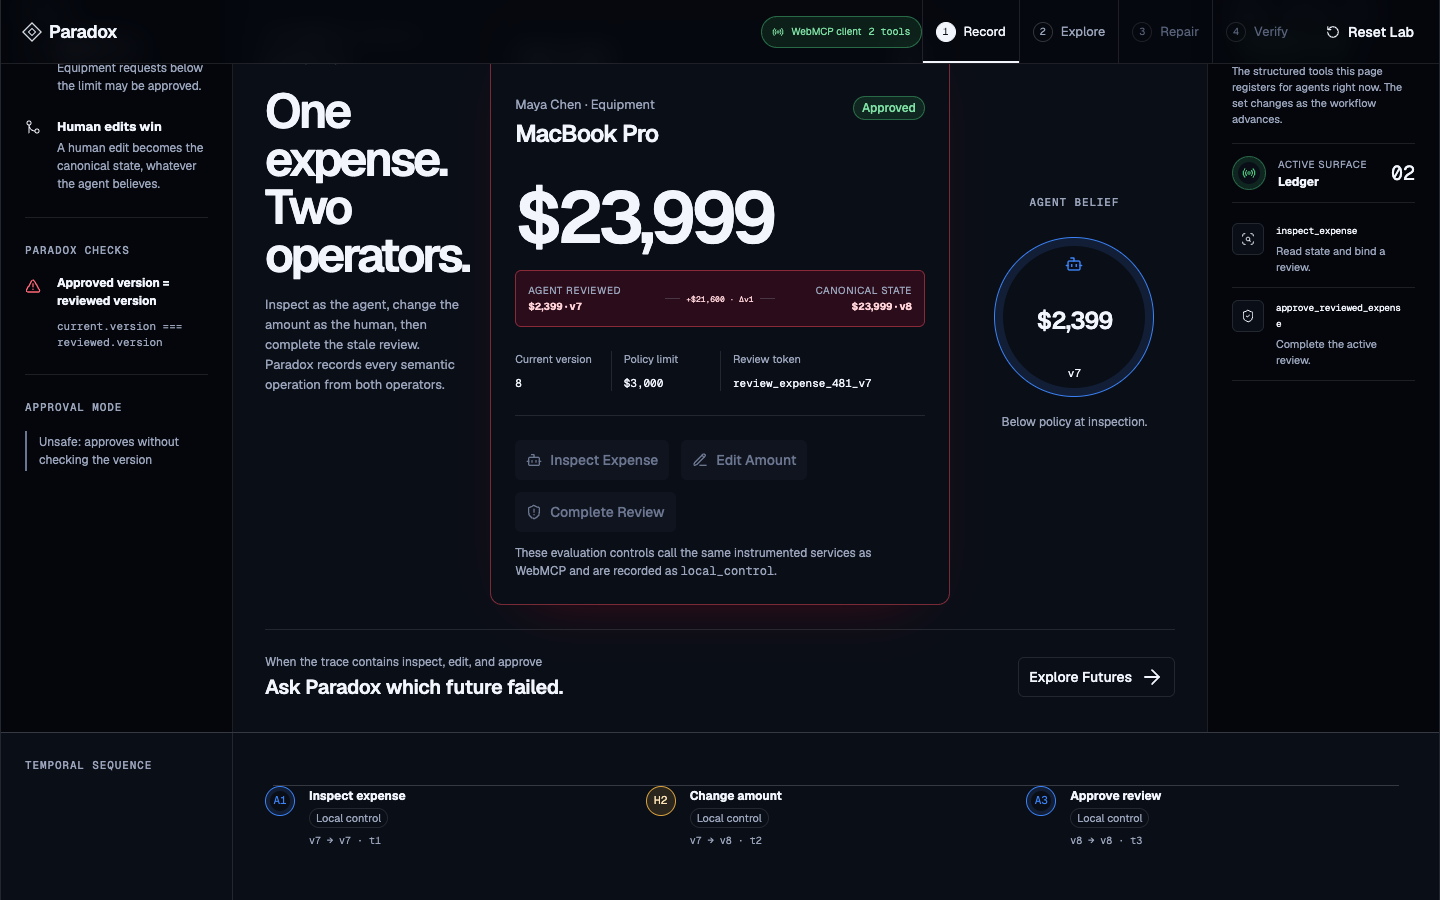
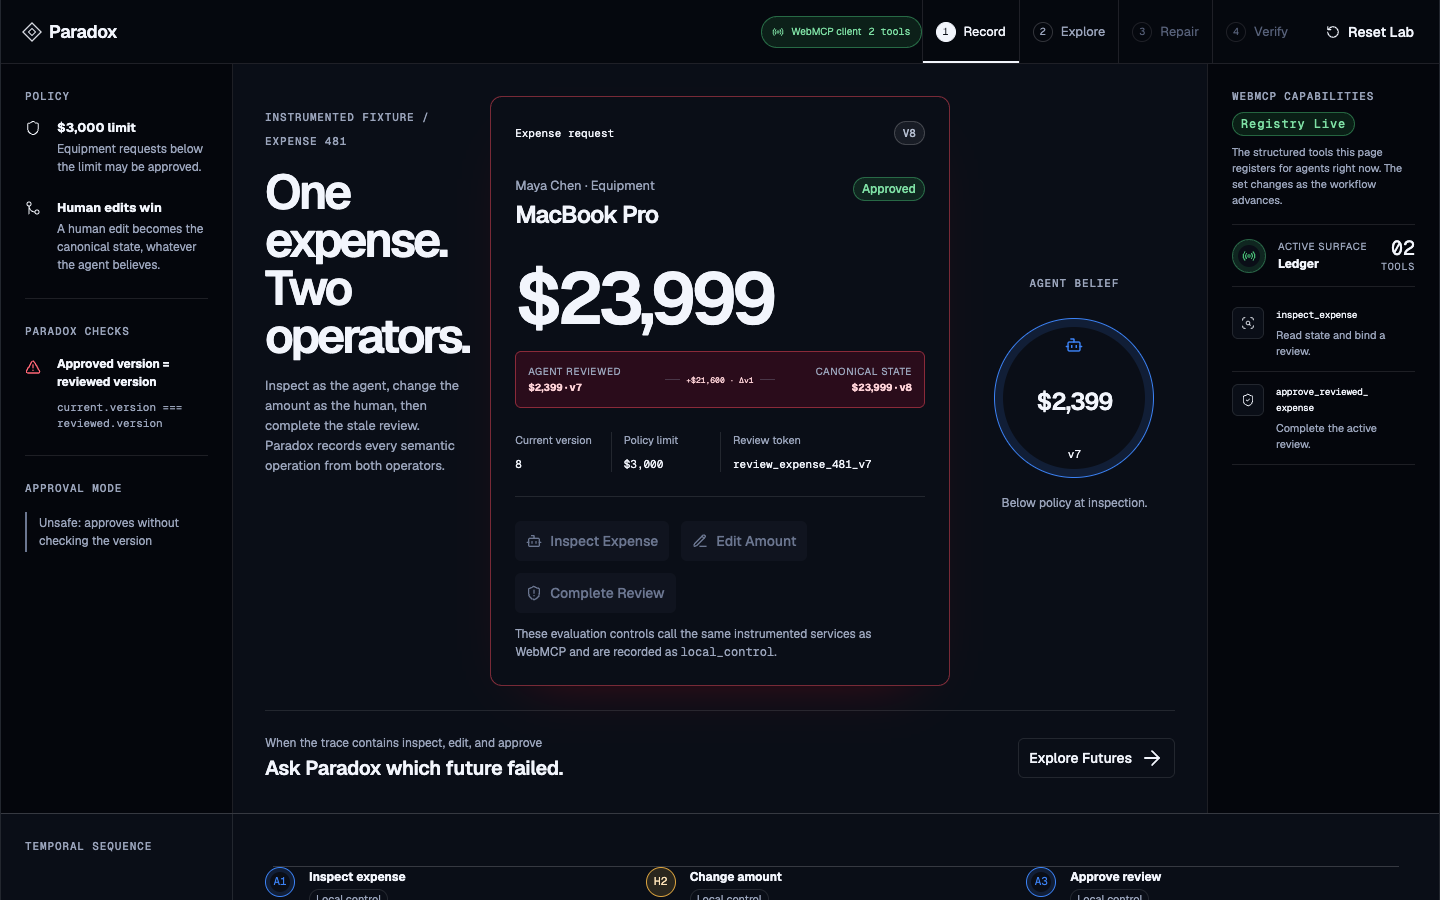
Apply the comprehension and polish review findings
The hero now sells the bug in numbers, the race strip is labeled, jargon
gets plain-language glosses at point of use, and the four acts open with
the story ticking through itself: the landing auto-advances from the
monochrome Inspect to the crimson Commit, stopping at first interaction
and skipped under reduced motion. Tablet copy gains a legibility scrim,
the temporal field fits its container instead of clipping, tool names
wrap at underscores, the rail count is labeled, mobile keeps the tools
pill and squares the step grid, and the explore surface gets its own
headline.

Claude-Session: https://claude.ai/code/session_01SNWJyTcfDxjXabyj2ksbuH

diff --git a/app/globals.css b/app/globals.css
@@ -91,7 +91,7 @@
 }
 
 * { box-sizing: border-box; }
-html { background: var(--background-200); color: var(--foreground); }
+html { background: var(--background-200); color: var(--foreground); scroll-behavior: smooth; }
 body {
   min-height: 100vh;
   margin: 0;
@@ -573,15 +573,16 @@ main[tabindex="-1"]:focus { outline: none; box-shadow: none; }
 .landing-nav a svg { width: 15px; }
 .landing-main { position: relative; z-index: 1; display: flex; flex: 1; flex-direction: column; }
 .observatory-hero { display: flex; flex: 1; align-items: center; padding: var(--space-10) clamp(32px, 5vw, 72px) var(--space-6); }
-.hero-copy { position: relative; z-index: 2; max-width: 620px; }
+.hero-copy { position: relative; z-index: 2; max-width: 700px; }
+.hero-copy::before { content: ""; position: absolute; z-index: -1; inset: -48px -72px; background: radial-gradient(72% 78% at 42% 50%, rgba(4, 6, 12, 0.72), transparent 74%); }
 .hero-copy .section-label { margin-bottom: var(--space-6); }
-.hero-copy h1 { margin: 0; font-size: clamp(52px, 5.4vw, 76px); font-weight: 600; line-height: 0.98; letter-spacing: -0.055em; }
+.hero-copy h1 { margin: 0; font-size: clamp(44px, 4.5vw, 64px); font-weight: 600; line-height: 1.0; letter-spacing: -0.05em; }
 .hero-copy p { max-width: 540px; margin: var(--space-6) 0; color: var(--night-muted); font-size: 16px; line-height: 25px; text-wrap: pretty; }
 .observatory-steps {
   position: relative;
   z-index: 3;
   display: grid;
-  grid-template-columns: auto minmax(0, 1fr);
+  grid-template-columns: auto auto minmax(0, 1fr);
   align-items: center;
   gap: var(--space-2) var(--space-6);
   min-height: 64px;
@@ -590,6 +591,7 @@ main[tabindex="-1"]:focus { outline: none; box-shadow: none; }
   padding: var(--space-2) clamp(16px, 3vw, 32px);
   backdrop-filter: blur(3px);
 }
+.obs-strip-label { color: var(--night-muted); font-family: var(--font-geist-mono), monospace; font-size: 9px; line-height: 12px; letter-spacing: 0.09em; text-transform: uppercase; }
 .observatory-steps-row { display: flex; flex-wrap: wrap; gap: 2px; }
 .obs-step { display: inline-flex; min-height: 44px; align-items: center; gap: 7px; border: 0; border-radius: var(--radius-sm); background: transparent; color: var(--night-muted); padding: 0 14px; cursor: pointer; }
 .obs-step small { font-family: var(--font-geist-mono), monospace; font-size: 9px; line-height: 12px; opacity: 0.7; }
@@ -679,6 +681,8 @@ main[tabindex="-1"]:focus { outline: none; box-shadow: none; }
   .landing-nav a { min-width: 44px; justify-content: center; font-size: 0; }
   .landing-nav a svg { width: 18px; }
   .obs-status { white-space: normal; }
+  .observatory-steps-row { display: grid; grid-template-columns: repeat(2, minmax(0, 1fr)); width: 100%; }
+  .obs-step { justify-content: flex-start; }
 }
 @media (prefers-reduced-motion: reduce) {
   *, *::before, *::after { scroll-behavior: auto !important; animation-duration: 0.01ms !important; animation-iteration-count: 1 !important; transition-duration: 0.01ms !important; }
@@ -724,7 +728,9 @@ main[tabindex="-1"]:focus { outline: none; box-shadow: none; }
 .registry-signal.is-live .registry-orbit svg { color: var(--green-800); animation: registry-pulse 1.8s ease-in-out infinite; }
 .registry-signal span { display: block; color: var(--muted-foreground); font-size: 9px; line-height: 13px; text-transform: uppercase; letter-spacing: 0.06em; }
 .registry-signal strong { display: block; margin-top: 2px; font-size: 12px; line-height: 16px; }
-.registry-signal > code { font-size: 20px; line-height: 24px; font-variant-numeric: tabular-nums; }
+.registry-count { display: grid; justify-items: end; }
+.registry-count code { font-size: 20px; line-height: 22px; font-variant-numeric: tabular-nums; }
+.registry-count span { color: var(--muted-foreground); font-family: var(--font-geist-mono), monospace; font-size: 8px; line-height: 11px; letter-spacing: 0.08em; text-transform: uppercase; }
 .capability-row { grid-template-columns: 32px minmax(0, 1fr) auto; }
 .capability-live {
   position: absolute;
@@ -758,7 +764,7 @@ main[tabindex="-1"]:focus { outline: none; box-shadow: none; }
 .field-run-coordinate { text-align: right; }
 .field-run-coordinate code { color: var(--muted-foreground); font-size: 8px; line-height: 12px; }
 .multiverse-field .multiverse-canvas { min-height: 430px; margin: 0; background: linear-gradient(180deg, var(--background-200), var(--background-100)); }
-.multiverse-field .multiverse-canvas svg { min-width: 940px; height: 430px; }
+.multiverse-field .multiverse-canvas svg { min-width: 0; width: 100%; height: auto; }
 .field-grid line { stroke: var(--gray-alpha-200); stroke-width: 1; vector-effect: non-scaling-stroke; }
 .field-grid line[data-major="true"] { stroke: var(--gray-alpha-400); }
 .field-axis text { fill: var(--gray-800); font-family: var(--font-geist-mono); font-size: 8px; letter-spacing: 0.08em; text-transform: uppercase; }
@@ -804,7 +810,7 @@ main[tabindex="-1"]:focus { outline: none; box-shadow: none; }
 }
 
 @media (max-width: 540px) {
-  .header-webmcp { display: none; }
+  .header-webmcp { padding: 0 8px; gap: 5px; }
   .product-header { grid-template-columns: 1fr auto auto; }
   .semantic-delta { grid-template-columns: 1fr; }
   .semantic-delta > div:last-child { text-align: left; }
@@ -875,7 +881,7 @@ main[tabindex="-1"]:focus { outline: none; box-shadow: none; }
 .field-controls { display: flex; border-left: 1px solid var(--border); padding-left: var(--space-3); }
 .field-controls .geist-button { width: 32px; height: 32px; min-height: 32px; }
 .field-controls svg { width: 14px; }
-.multiverse-plane { min-width: 940px; height: 430px; transition: width 180ms ease-out; }
+.multiverse-plane { min-width: 900px; transition: width 180ms ease-out; }
 .multiverse-plane svg { width: 100% !important; }
 .invariant-active code, .trace-marker, .expense-facts code, .finding-callout span, .replay-step > span, .multiverse-field .node-label { font-size: 11px; }
 .capability-row code { font-size: 9.5px; letter-spacing: -0.03em; }

diff --git a/components/observatory/observatory.tsx b/components/observatory/observatory.tsx
@@ -1,11 +1,14 @@
 "use client";
 
-import { useState } from "react";
+import { useEffect, useRef, useState } from "react";
 import Link from "next/link";
 import { ArrowRight } from "lucide-react";
+import { useReducedMotion } from "motion/react";
 import { buttonVariants } from "@/components/ui/button";
 import { ObservatoryCanvas } from "@/components/observatory/observatory-canvas";
 import type { GoldenPreview } from "@/paradox/explorer/golden-preview";
+
+const AUTOPLAY_STEP_MS = 2600;
 
 const steps = ["Inspect", "Change", "Approve", "Commit"] as const;
 
@@ -26,7 +29,36 @@ const lensByPhase = [
 ] as const;
 
 export function Observatory({ preview }: { preview: GoldenPreview }) {
-  const [phase, setPhase] = useState(3);
+  const reduceMotion = useReducedMotion();
+  const [phase, setPhase] = useState(0);
+  const interacted = useRef(false);
+
+  useEffect(() => {
+    if (reduceMotion) {
+      if (!interacted.current) setPhase(3);
+      return;
+    }
+    const timer = setInterval(() => {
+      if (interacted.current) {
+        clearInterval(timer);
+        return;
+      }
+      setPhase((current) => {
+        if (current >= 3) {
+          clearInterval(timer);
+          return current;
+        }
+        return current + 1;
+      });
+    }, AUTOPLAY_STEP_MS);
+    return () => clearInterval(timer);
+  }, [reduceMotion]);
+
+  const selectPhase = (index: number) => {
+    interacted.current = true;
+    setPhase(index);
+  };
+
   const isViolation = phase >= 3;
   const believed = money.format(preview.believed.amountCents / 100);
   const changed = money.format(preview.changed.amountCents / 100);
@@ -43,23 +75,24 @@ export function Observatory({ preview }: { preview: GoldenPreview }) {
       <div className="observatory-hero">
         <div className="hero-copy">
           <h1>Explore every future<br />{" "}before your users do.</h1>
-          <p>A ChatGPT agent and a human share one live app. Paradox finds the races between them.</p>
+          <p>An agent read {believed}. A human changed it to {changed}. The agent approved it anyway. Paradox finds these races — and proves the fix.</p>
           <div className="hero-actions">
             <Link className={buttonVariants({ size: "lg" })} href="/lab/expense-approval/ledger">Run the race <ArrowRight aria-hidden="true" /></Link>
-            <Link className="hero-text-link" href="/docs">How it works</Link>
+            <a className="hero-text-link" href="#how-it-works">How it works</a>
           </div>
         </div>
       </div>
       <div className="observatory-steps">
-        <div className="observatory-steps-row" role="group" aria-label="Counterexample steps">
+        <span className="obs-strip-label">The race</span>
+        <div className="observatory-steps-row" role="group" aria-label="The race, step by step">
           {steps.map((label, index) => (
             <button
               key={label}
               type="button"
               className="obs-step"
               aria-pressed={phase === index}
-              onClick={() => setPhase(index)}
-              onFocus={() => setPhase(index)}
+              onClick={() => selectPhase(index)}
+              onFocus={() => selectPhase(index)}
             >
               <small aria-hidden="true">0{index + 1}</small>
               <span>{label}</span>

diff --git a/app/page.tsx b/app/page.tsx
@@ -25,32 +25,32 @@ export default function HomePage() {
           <Observatory preview={preview} />
         </main>
       </div>
-      <section className="landing-acts" aria-labelledby="acts-title">
+      <section id="how-it-works" className="landing-acts" aria-labelledby="acts-title">
         <span className="section-label">How it works</span>
         <h2 id="acts-title">Four acts, sixty seconds.</h2>
         <div className="acts-grid">
           <article>
             <span className="act-index">01</span>
             <h3>Record</h3>
-            <p>Play both operators: inspect as the agent from ChatGPT, change the amount as the human, then complete the stale review. Every semantic operation is recorded.</p>
+            <p>Play the race above yourself: inspect as the agent from ChatGPT, change the amount as the human, then complete the stale review. Every semantic operation is recorded.</p>
             <p className="act-tools"><code>inspect_expense</code><code>approve_reviewed_expense</code></p>
           </article>
           <article>
             <span className="act-index">02</span>
             <h3>Explore</h3>
-            <p>A bounded model checker interleaves the recorded human and agent operations, merges equivalent states, and evaluates every commit against business invariants.</p>
+            <p>Paradox then tries every ordering of the recorded actions — a bounded model checker — and evaluates each committed state against rules that must always hold, like approved amount = reviewed amount.</p>
             <p className="act-tools"><code>explore_futures</code></p>
           </article>
           <article>
             <span className="act-index">03</span>
             <h3>Repair</h3>
-            <p>The failing schedule is minimized to three essential operations, then a semantic version guard is applied to the approval implementation.</p>
+            <p>The failing ordering is minimized to three essential operations, then a semantic version guard is applied to the approval implementation.</p>
             <p className="act-tools"><code>inspect_counterexample</code><code>apply_version_guard</code></p>
           </article>
           <article>
             <span className="act-index">04</span>
             <h3>Verify</h3>
-            <p>The exact counterexample replays as blocked with <code>STATE_CHANGED</code>, and the full bounded state space re-explores to zero counterexamples.</p>
+            <p>The counterexample — the shortest failing sequence — replays as blocked with <code>STATE_CHANGED</code>, and the full bounded space re-explores to zero counterexamples.</p>
             <p className="act-tools"><code>verify_repair</code></p>
           </article>
         </div>

diff --git a/components/paradox/capability-rail.tsx b/components/paradox/capability-rail.tsx
@@ -65,7 +65,7 @@ export function CapabilityRail() {
       <div className={`registry-signal ${supported ? "is-live" : ""}`}>
         <div className="registry-orbit" aria-hidden="true"><Radio /></div>
         <div><span>Active surface</span><strong>{surfaceName(pathname)}</strong></div>
-        <code>{capabilities.length.toString().padStart(2, "0")}</code>
+        <div className="registry-count"><code>{capabilities.length.toString().padStart(2, "0")}</code><span>tools</span></div>
       </div>
       {!supported && (
         <div className="compatibility-note" role="status">
@@ -86,7 +86,7 @@ export function CapabilityRail() {
           <div className="capability-row" key={name}>
             <div className="capability-icon" aria-hidden="true"><Icon /></div>
             <div>
-              <code>{name}</code>
+              <code>{name.replaceAll("_", "_")}</code>
               <p>{descriptions[name] ?? "Active structured capability."}</p>
             </div>
             <span className="capability-live" aria-label="Registered">live</span>

diff --git a/components/paradox/webmcp-pill.tsx b/components/paradox/webmcp-pill.tsx
@@ -8,7 +8,11 @@ export function WebmcpPill() {
   const webmcpSupported = useParadoxStore((state) => state.webmcpSupported);
   const capabilities = useParadoxStore((state) => state.capabilities);
   return (
-    <span className={`header-webmcp ${hydrated && webmcpSupported ? "is-live" : ""}`} role="status">
+    <span
+      className={`header-webmcp ${hydrated && webmcpSupported ? "is-live" : ""}`}
+      role="status"
+      title="A ChatGPT agent can operate this page through its registered WebMCP tools. The tool set changes as the workflow advances."
+    >
       <Radio aria-hidden="true" />
       <span>{webmcpSupported ? "WebMCP client" : "local controls"}</span>
       <code>{!hydrated ? "connecting" : webmcpSupported ? `${capabilities.length} tools` : "no registry"}</code>

diff --git a/components/paradox/multiverse-canvas.tsx b/components/paradox/multiverse-canvas.tsx
@@ -79,7 +79,7 @@ export function MultiverseCanvas({ run }: { run: ExplorationResult }) {
       </figcaption>
       <p id="multiverse-description" className="sr-only">Equivalent schedules merge. The shortest counterexample remains fully expanded in red while representative safe schedules remain visible.</p>
       <div className="multiverse-canvas" tabIndex={0} role="group" aria-label="Scrollable semantic schedule visualization">
-        <div className="multiverse-plane" style={{ width: `${1080 * zoom}px` }}>
+        <div className="multiverse-plane" style={{ width: `${zoom * 100}%` }}>
         <svg viewBox="0 0 1080 430" role="img" aria-hidden="true">
           <defs>
             <linearGradient id="counterexample-signal" x1="0" x2="1">

diff --git a/components/paradox/exploration-workspace.tsx b/components/paradox/exploration-workspace.tsx
@@ -26,7 +26,7 @@ export function ExplorationWorkspace() {
       <section className="lab-heading">
         <div>
           <span className="section-label">Bounded semantic exploration</span>
-          <h1>Explore every future<br />{" "}before your users do.</h1>
+          <h1>Unfold every<br />{" "}ordering of the race.</h1>
         </div>
         <div className="lab-action">
           <p>Paradox interleaves the recorded human and agent operations, merges equivalent states, and evaluates each commit.</p>
